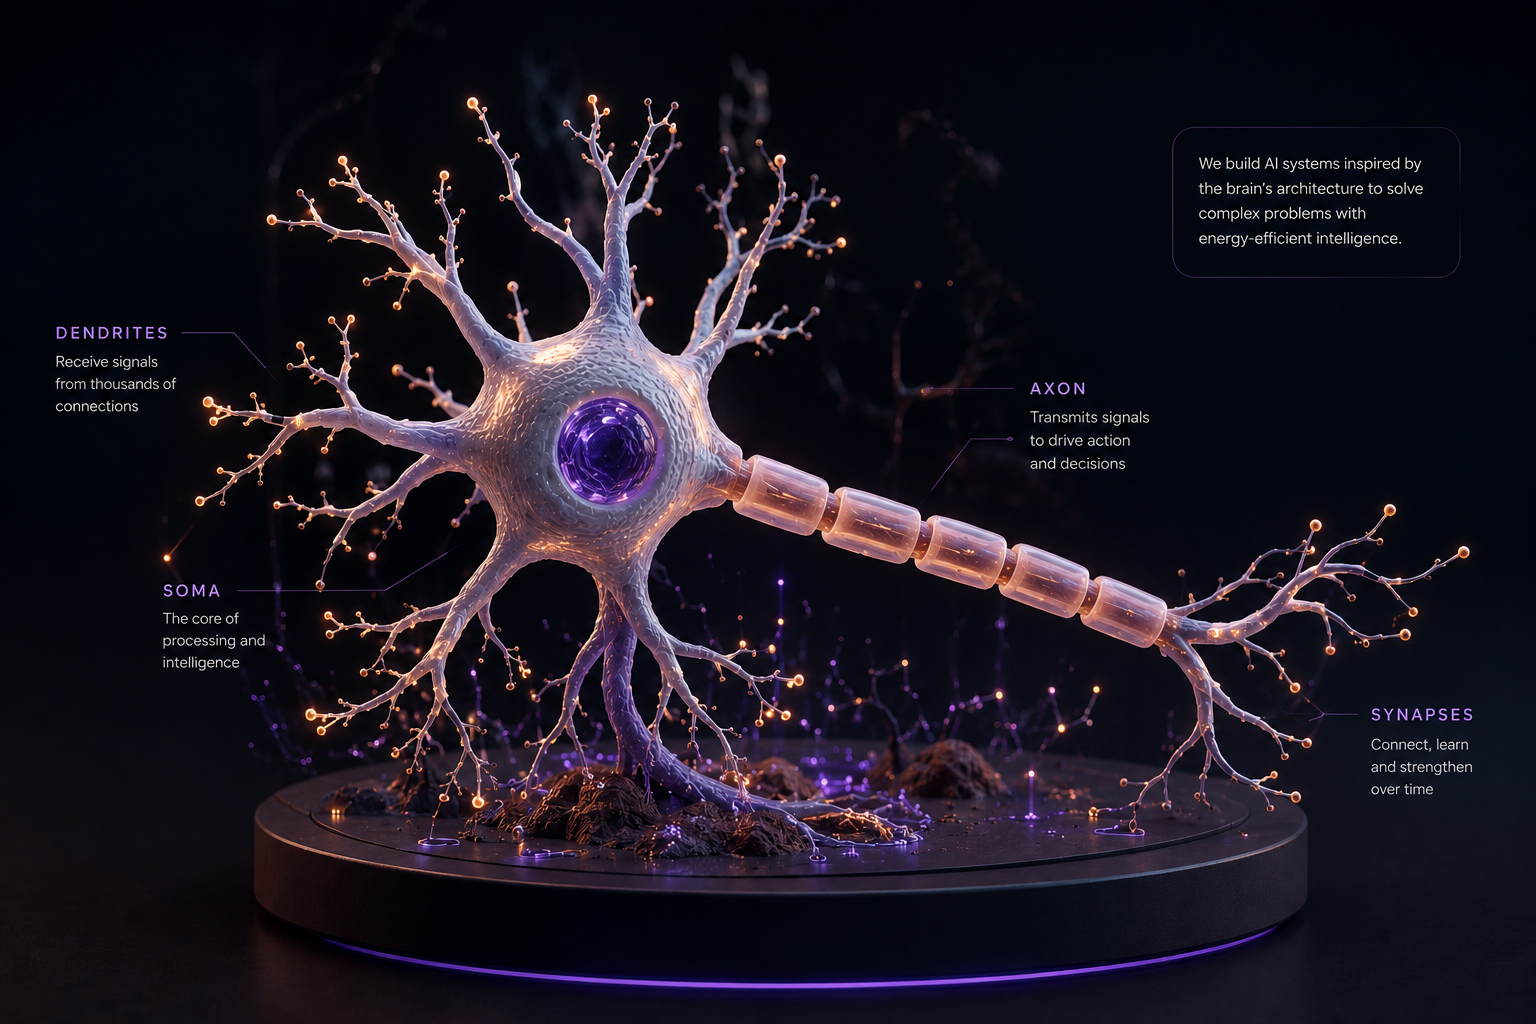
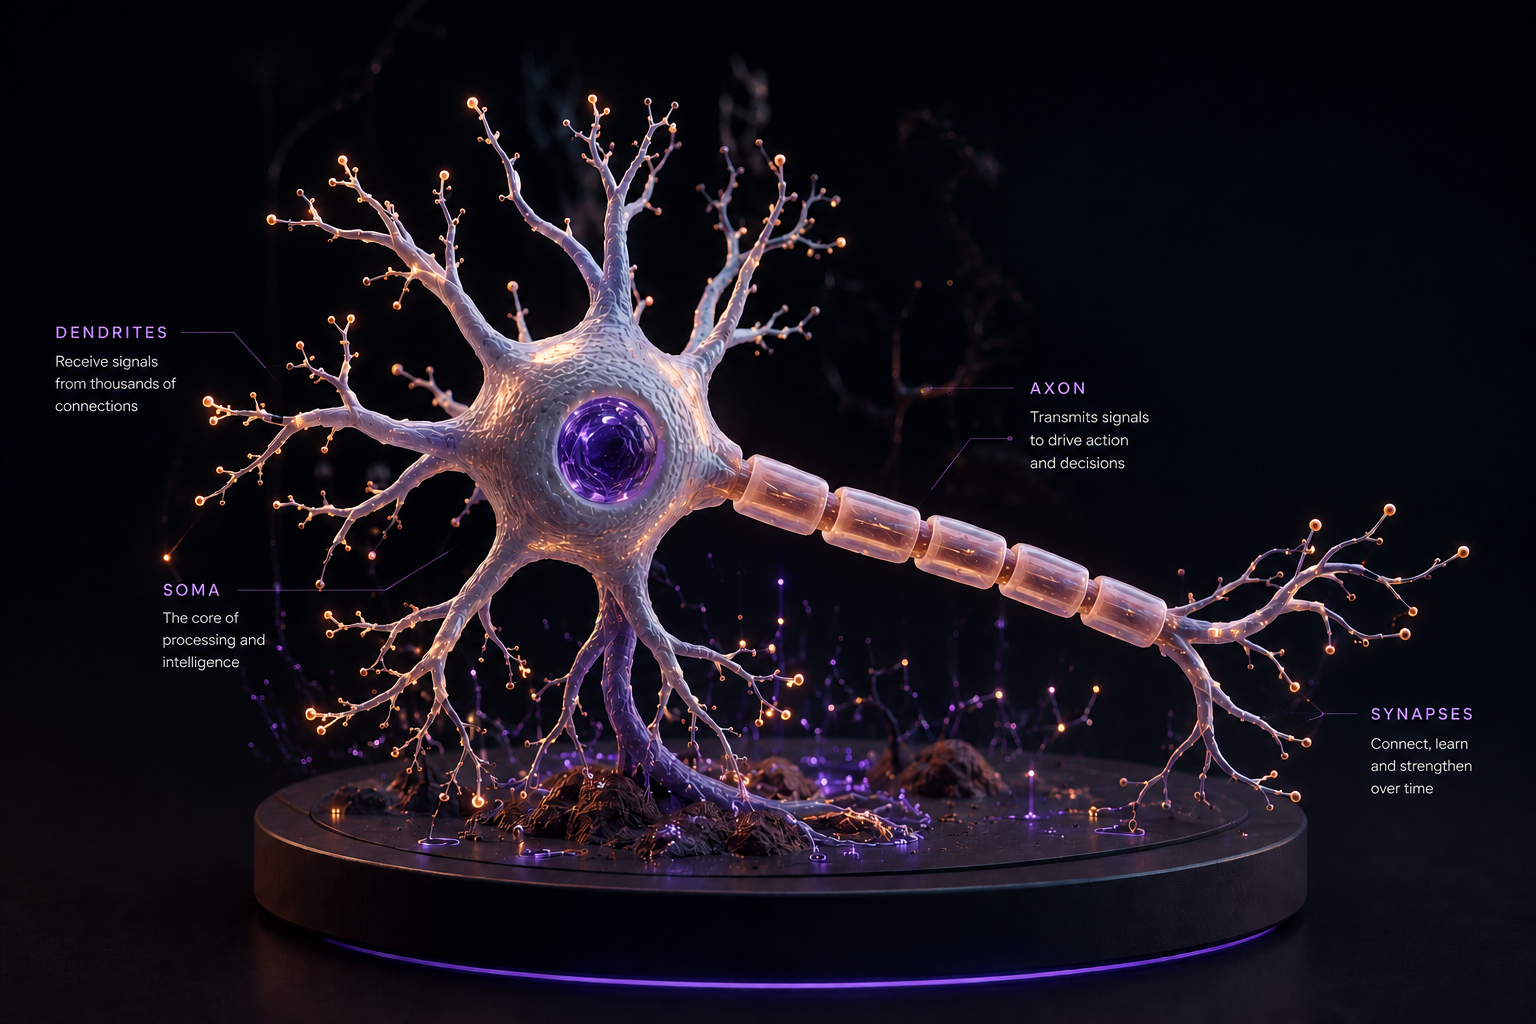
Changement image

diff --git a/src/App.css b/src/App.css
@@ -369,14 +369,19 @@
 }
 
 .hero-frame-primary img {
+  object-fit: contain;
   object-position: center center;
+  padding: clamp(0.7rem, 1.6vw, 1rem);
+  background:
+    radial-gradient(circle at 50% 50%, rgba(98, 126, 255, 0.12), transparent 56%),
+    linear-gradient(180deg, rgba(7, 10, 23, 0.4), rgba(7, 10, 23, 0.2));
 }
 
 .hero-frame-primary {
   top: 3.2rem;
   right: 0;
   width: min(41rem, 92%);
-  height: 31rem;
+  aspect-ratio: 1.5 / 1;
 }
 
 .hero-frame-primary::after {
@@ -384,8 +389,8 @@
   position: absolute;
   inset: 0;
   background:
-    linear-gradient(180deg, rgba(10, 8, 26, 0) 0%, rgba(10, 8, 26, 0.15) 100%),
-    radial-gradient(circle at 50% 55%, rgba(124, 83, 255, 0.12), transparent 38%);
+    linear-gradient(180deg, rgba(10, 8, 26, 0) 0%, rgba(10, 8, 26, 0.08) 100%),
+    radial-gradient(circle at 50% 55%, rgba(124, 83, 255, 0.08), transparent 42%);
   pointer-events: none;
 }
 
@@ -742,7 +747,7 @@
 
   .hero-frame-primary {
     width: min(38rem, 88%);
-    height: 27rem;
+    aspect-ratio: 1.5 / 1;
   }
 
   .hero-frame-secondary {
@@ -842,7 +847,7 @@
     justify-self: stretch;
     width: 100%;
     height: auto;
-    aspect-ratio: 1.2 / 1;
+    aspect-ratio: 1.5 / 1;
     border-radius: 1.5rem;
   }
 
@@ -970,7 +975,7 @@
   }
 
   .hero-frame-primary {
-    aspect-ratio: 1.08 / 1;
+    aspect-ratio: 1.5 / 1;
   }
 
   .hero-frame-secondary {